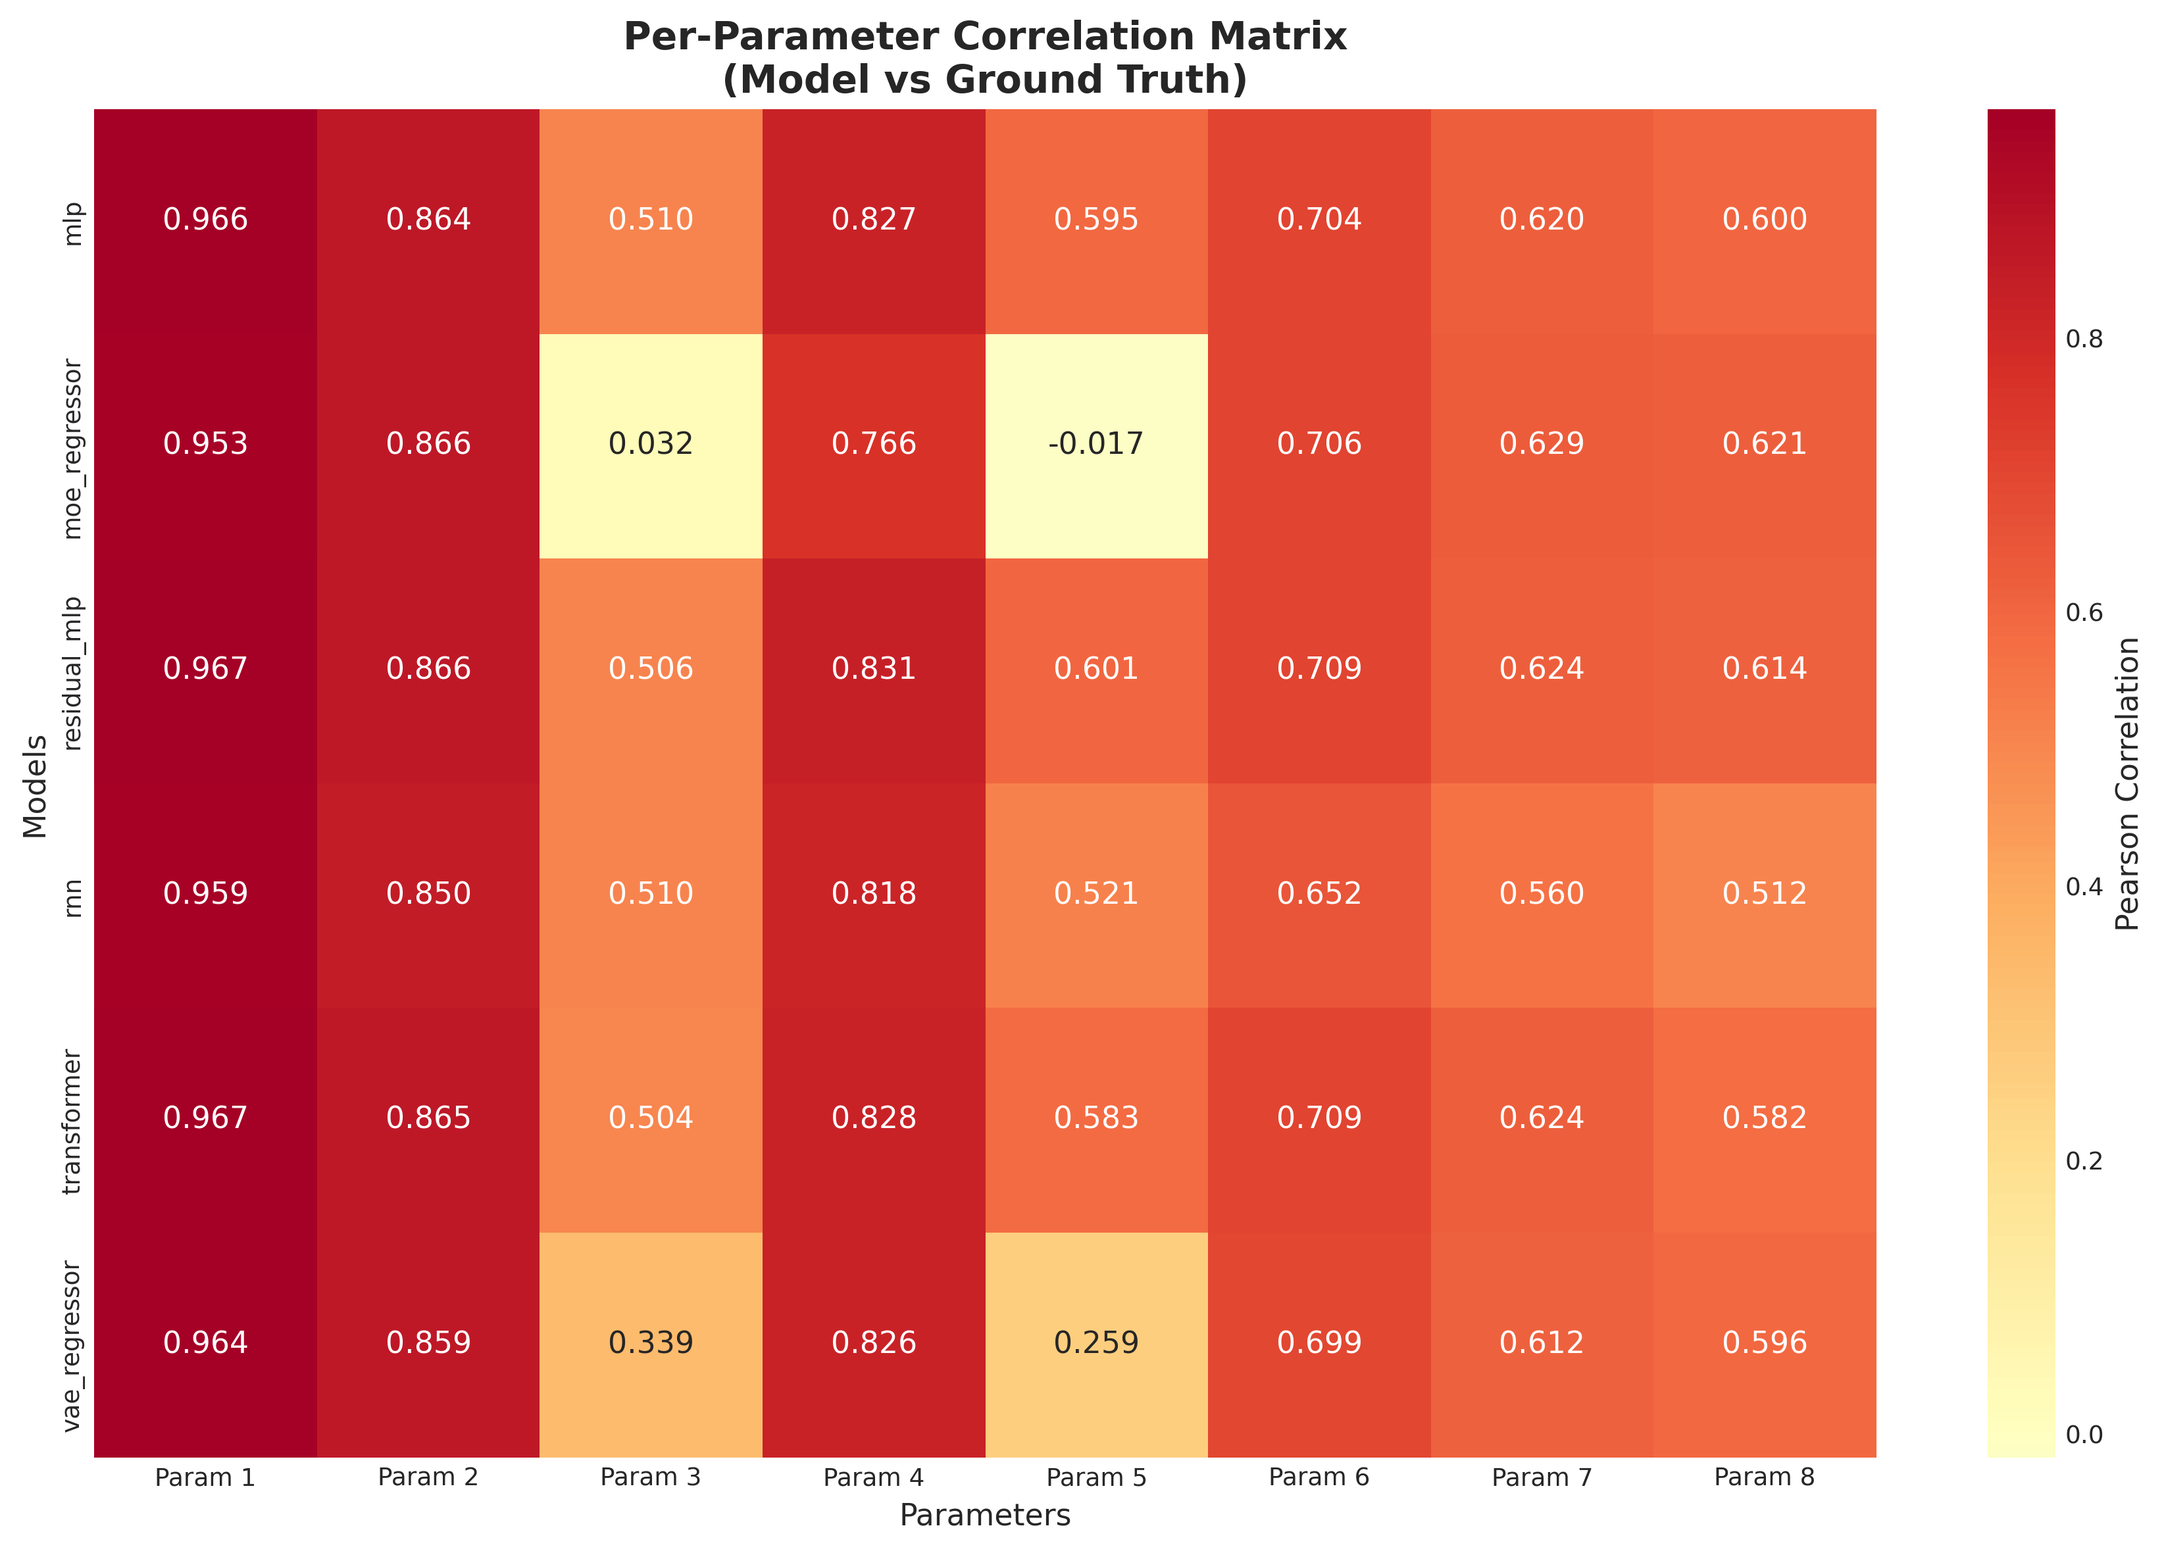
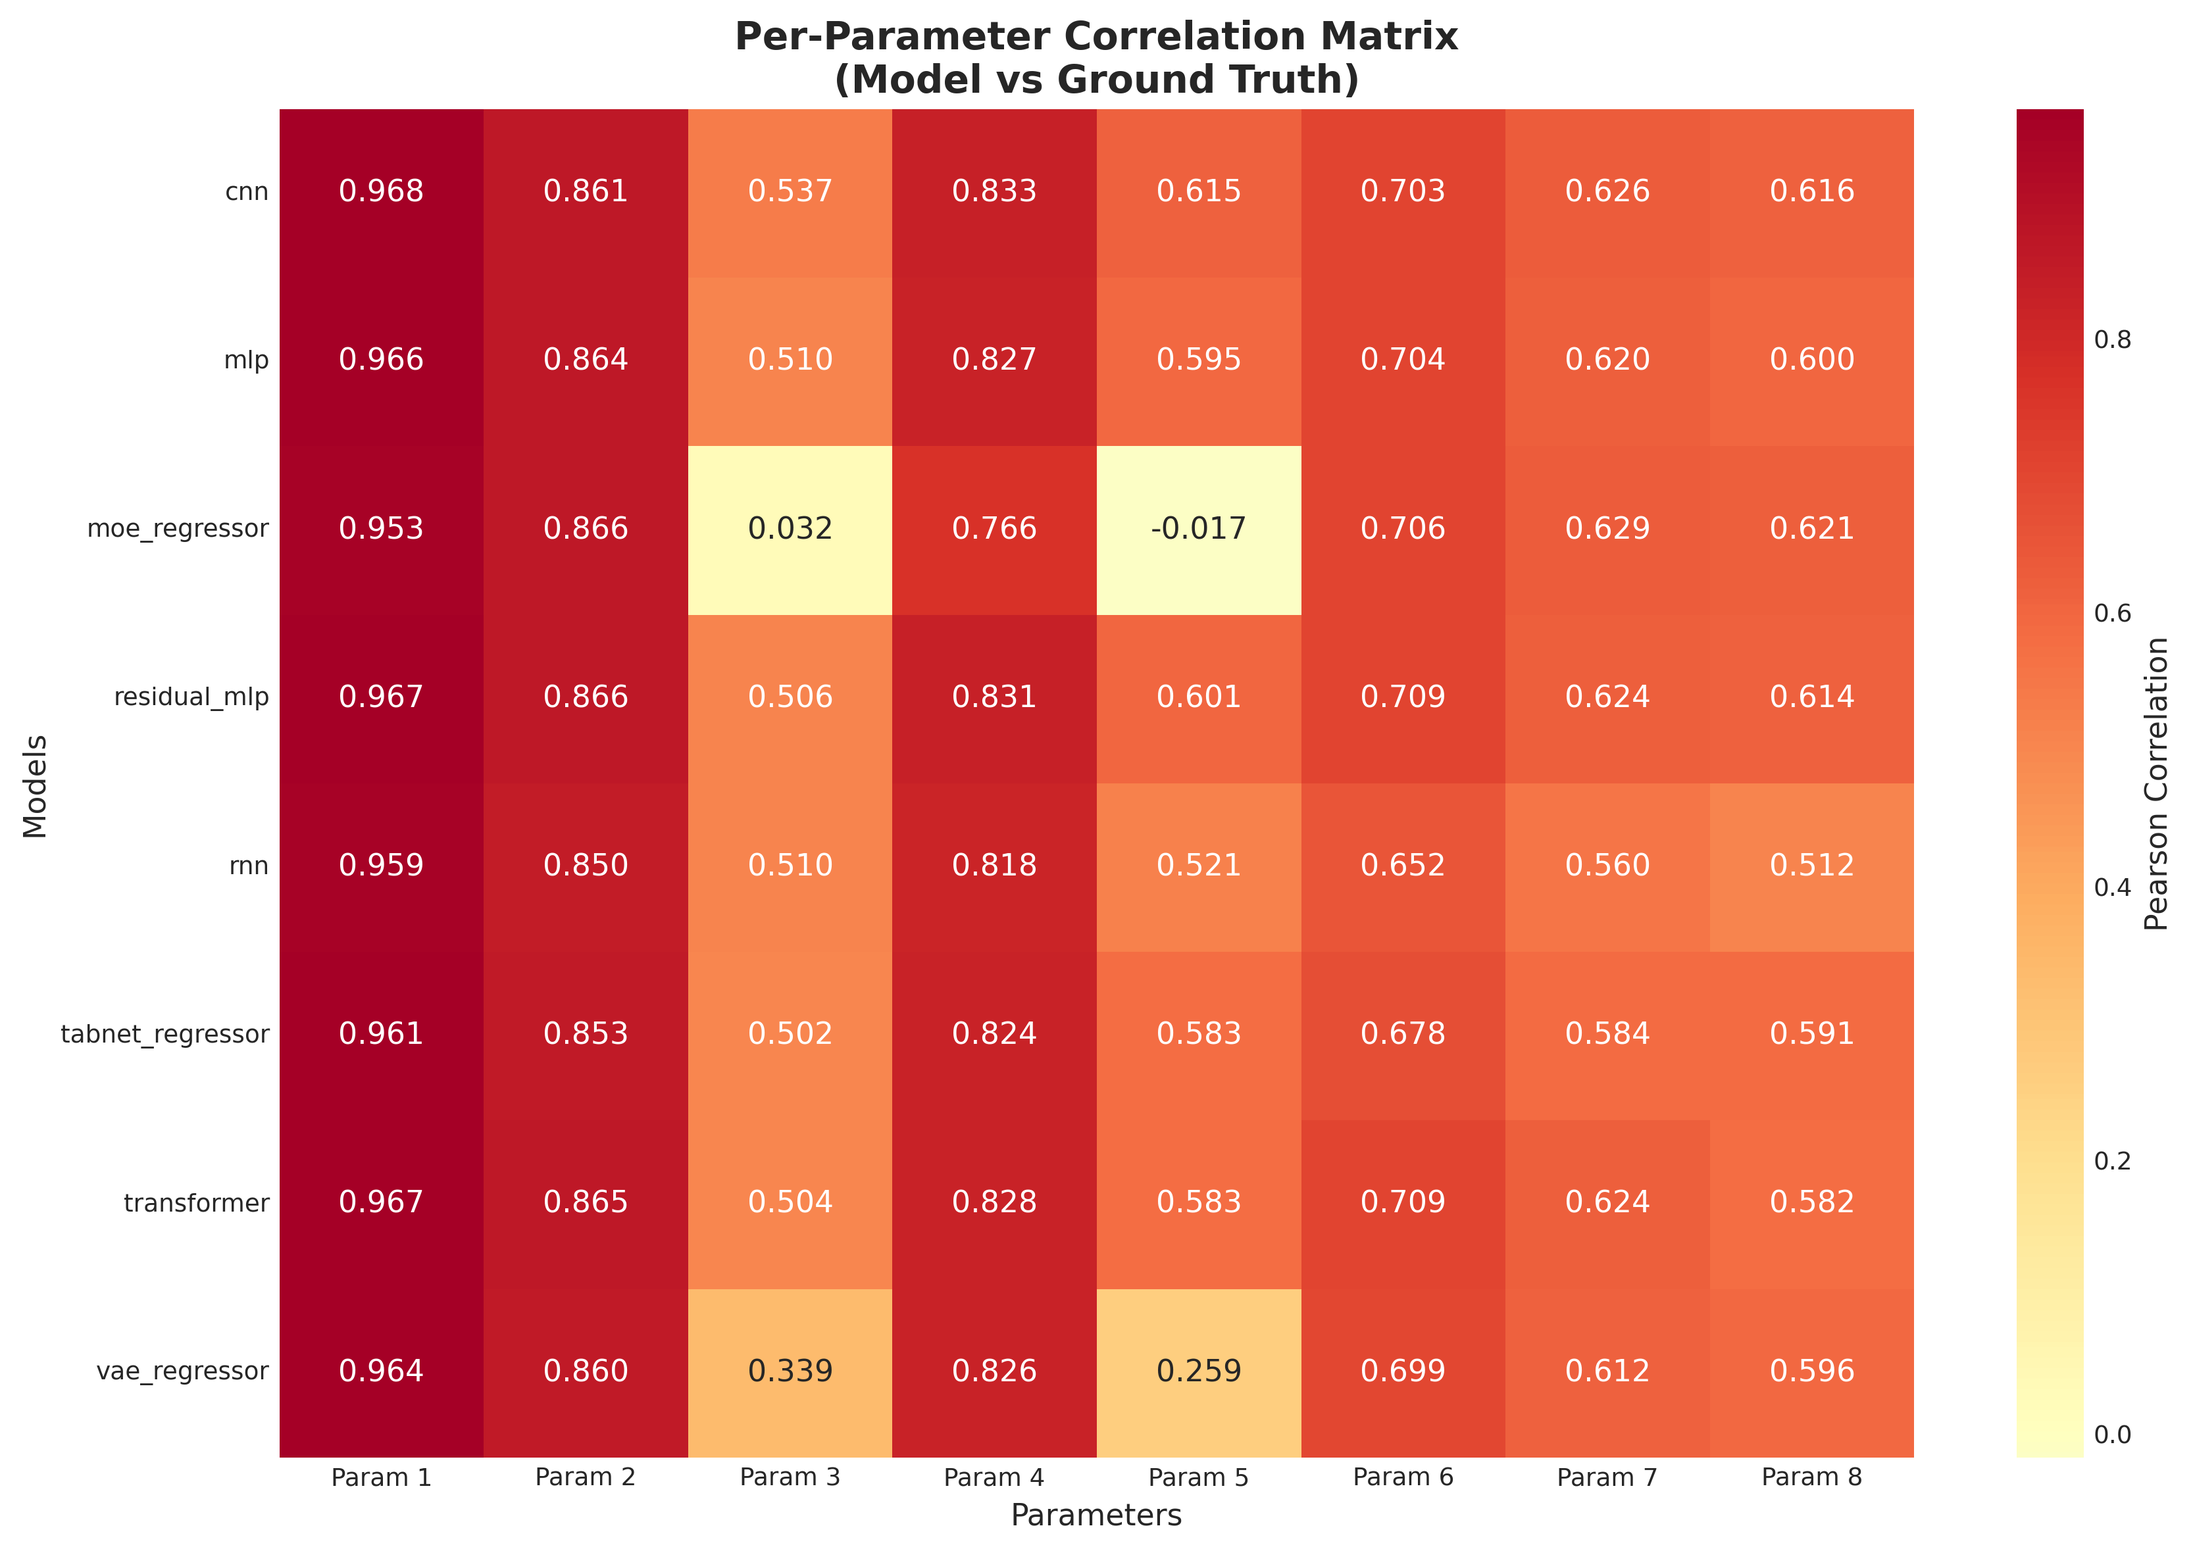
Enhance advanced evaluation and parameter-wise analysis
Refactored advanced_evaluate.py to improve parameter-wise comparison plots with clearer heatmaps, summary statistics, and best-performer visualizations. Updated evaluate_models.py for more robust model/config matching and error handling. Migrated and expanded evaluation outputs to advanced_evaluation/, including new summary, plots, and LaTeX results table. Updated run_evaluation.bat to focus on advanced evaluation. Removed obsolete files from evaluation_results/.

diff --git a/advanced_evaluate.py b/advanced_evaluate.py
@@ -180,7 +180,7 @@ class AdvancedModelEvaluator(ModelEvaluator):
         plt.show()
     
     def create_parameter_wise_comparison(self):
-        """Create detailed parameter-wise comparison plots."""
+        """Create detailed parameter-wise comparison plots with improved readability for many models."""
         if not hasattr(self, 'results'):
             return
         
@@ -193,7 +193,7 @@ class AdvancedModelEvaluator(ModelEvaluator):
             for param_idx in range(n_params):
                 param_data.append({
                     'Model': model,
-                    'Parameter': f'Param {param_idx + 1}',
+                    'Parameter': f'P{param_idx + 1}',  # Shorter parameter names
                     'R²': self.results[model]['per_param_r2'][param_idx],
                     'MSE': self.results[model]['per_param_mse'][param_idx],
                     'MAE': self.results[model]['per_param_mae'][param_idx],
@@ -202,45 +202,138 @@ class AdvancedModelEvaluator(ModelEvaluator):
         
         df_params = pd.DataFrame(param_data)
         
-        # Create subplots
-        fig, axes = plt.subplots(2, 2, figsize=(16, 12))
-        fig.suptitle('Parameter-wise Model Performance Comparison', fontsize=16, fontweight='bold')
+        # Create two separate figures for better readability
+        # Figure 1: R² and Correlation (most important metrics)
+        fig1, axes1 = plt.subplots(1, 2, figsize=(18, 8))
+        fig1.suptitle('Parameter-wise Model Performance: Primary Metrics', fontsize=16, fontweight='bold')
         
-        # R² by parameter
-        sns.boxplot(data=df_params, x='Parameter', y='R²', ax=axes[0,0])
-        sns.stripplot(data=df_params, x='Parameter', y='R²', 
-                     hue='Model', ax=axes[0,0], size=8, alpha=0.7)
-        axes[0,0].set_title('R² Score Distribution by Parameter')
-        axes[0,0].legend(bbox_to_anchor=(1.05, 1), loc='upper left')
+        # R² with heatmap style for better visualization
+        df_pivot_r2 = df_params.pivot(index='Model', columns='Parameter', values='R²')
+        sns.heatmap(df_pivot_r2, annot=True, fmt='.3f', cmap='viridis', 
+                   cbar_kws={'label': 'R² Score'}, ax=axes1[0])
+        axes1[0].set_title('R² Score by Model and Parameter')
+        axes1[0].set_xlabel('Parameter')
+        axes1[0].set_ylabel('Model')
         
-        # MSE by parameter
-        sns.boxplot(data=df_params, x='Parameter', y='MSE', ax=axes[0,1])
-        sns.stripplot(data=df_params, x='Parameter', y='MSE', 
-                     hue='Model', ax=axes[0,1], size=8, alpha=0.7)
-        axes[0,1].set_title('MSE Distribution by Parameter')
-        axes[0,1].legend(bbox_to_anchor=(1.05, 1), loc='upper left')
-        axes[0,1].set_yscale('log')
-        
-        # MAE by parameter
-        sns.boxplot(data=df_params, x='Parameter', y='MAE', ax=axes[1,0])
-        sns.stripplot(data=df_params, x='Parameter', y='MAE', 
-                     hue='Model', ax=axes[1,0], size=8, alpha=0.7)
-        axes[1,0].set_title('MAE Distribution by Parameter')
-        axes[1,0].legend(bbox_to_anchor=(1.05, 1), loc='upper left')
-        
-        # Correlation by parameter
-        sns.boxplot(data=df_params, x='Parameter', y='Correlation', ax=axes[1,1])
-        sns.stripplot(data=df_params, x='Parameter', y='Correlation', 
-                     hue='Model', ax=axes[1,1], size=8, alpha=0.7)
-        axes[1,1].set_title('Correlation Distribution by Parameter')
-        axes[1,1].legend(bbox_to_anchor=(1.05, 1), loc='upper left')
+        # Correlation heatmap
+        df_pivot_corr = df_params.pivot(index='Model', columns='Parameter', values='Correlation')
+        sns.heatmap(df_pivot_corr, annot=True, fmt='.3f', cmap='plasma',
+                   cbar_kws={'label': 'Correlation'}, ax=axes1[1])
+        axes1[1].set_title('Correlation by Model and Parameter')
+        axes1[1].set_xlabel('Parameter')
+        axes1[1].set_ylabel('Model')
         
         plt.tight_layout()
-        plt.savefig(os.path.join(self.results_dir, 'parameter_wise_comparison.png'), 
+        plt.savefig(os.path.join(self.results_dir, 'parameter_wise_primary_metrics.png'), 
                    dpi=300, bbox_inches='tight')
         plt.show()
         
+        # Figure 2: Error metrics (MSE and MAE)
+        fig2, axes2 = plt.subplots(1, 2, figsize=(18, 8))
+        fig2.suptitle('Parameter-wise Model Performance: Error Metrics', fontsize=16, fontweight='bold')
+        
+        # MSE heatmap (log scale for better visualization)
+        df_pivot_mse = df_params.pivot(index='Model', columns='Parameter', values='MSE')
+        # Use log scale for MSE due to potentially large values
+        sns.heatmap(np.log10(df_pivot_mse + 1e-10), annot=df_pivot_mse.values, fmt='.2e', 
+                   cmap='Reds', cbar_kws={'label': 'log₁₀(MSE)'}, ax=axes2[0])
+        axes2[0].set_title('MSE by Model and Parameter (log scale)')
+        axes2[0].set_xlabel('Parameter')
+        axes2[0].set_ylabel('Model')
+        
+        # MAE heatmap
+        df_pivot_mae = df_params.pivot(index='Model', columns='Parameter', values='MAE')
+        sns.heatmap(df_pivot_mae, annot=True, fmt='.3f', cmap='Oranges',
+                   cbar_kws={'label': 'MAE'}, ax=axes2[1])
+        axes2[1].set_title('MAE by Model and Parameter')
+        axes2[1].set_xlabel('Parameter')
+        axes2[1].set_ylabel('Model')
+        
+        plt.tight_layout()
+        plt.savefig(os.path.join(self.results_dir, 'parameter_wise_error_metrics.png'), 
+                   dpi=300, bbox_inches='tight')
+        plt.show()
+        
+        # Figure 3: Summary statistics for each parameter
+        fig3, axes3 = plt.subplots(2, 2, figsize=(16, 12))
+        fig3.suptitle('Parameter Performance Summary Statistics', fontsize=16, fontweight='bold')
+        
+        # Best performing model per parameter for each metric
+        metrics = ['R²', 'MSE', 'MAE', 'Correlation']
+        metric_titles = ['Best R² by Parameter', 'Best MSE by Parameter', 
+                        'Best MAE by Parameter', 'Best Correlation by Parameter']
+        
+        for idx, (metric, title) in enumerate(zip(metrics, metric_titles)):
+            ax = axes3[idx//2, idx%2]
+            
+            # Find best model for each parameter
+            if metric in ['MSE', 'MAE']:
+                best_per_param = df_params.groupby('Parameter')[metric].idxmin()
+            else:
+                best_per_param = df_params.groupby('Parameter')[metric].idxmax()
+            
+            best_models = df_params.loc[best_per_param, ['Parameter', 'Model', metric]]
+            
+            # Create bar plot
+            bars = ax.bar(best_models['Parameter'], best_models[metric], 
+                         color=sns.color_palette("husl", len(best_models)))
+            ax.set_title(title)
+            ax.set_xlabel('Parameter')
+            ax.set_ylabel(metric)
+            ax.tick_params(axis='x', rotation=45)
+            
+            # Add model labels on bars
+            for i, (bar, model) in enumerate(zip(bars, best_models['Model'])):
+                height = bar.get_height()
+                ax.text(bar.get_x() + bar.get_width()/2., height + height*0.01,
+                       model, ha='center', va='bottom', fontsize=8, rotation=45)
+        
+        plt.tight_layout()
+        plt.savefig(os.path.join(self.results_dir, 'parameter_wise_best_performers.png'), 
+                   dpi=300, bbox_inches='tight')
+        plt.show()
+        
+        # Also save the legacy comparison plot but with improved styling
+        self._create_legacy_parameter_comparison(df_params)
+        
         return df_params
+    
+    def _create_legacy_parameter_comparison(self, df_params):
+        """Create the original style comparison but with improved readability."""
+        fig, axes = plt.subplots(2, 2, figsize=(20, 14))
+        fig.suptitle('Parameter-wise Model Performance (Detailed View)', fontsize=16, fontweight='bold')
+        
+        # Use smaller points and no overlapping stripplot
+        plot_params = {'size': 4, 'alpha': 0.6}
+        
+        # R² by parameter - use violin plot for better density visualization
+        sns.violinplot(data=df_params, x='Parameter', y='R²', ax=axes[0,0], 
+                      inner='quart', palette='viridis')
+        axes[0,0].set_title('R² Score Distribution by Parameter')
+        axes[0,0].tick_params(axis='x', rotation=45)
+        
+        # MSE by parameter - box plot only due to wide range
+        sns.boxplot(data=df_params, x='Parameter', y='MSE', ax=axes[0,1])
+        axes[0,1].set_title('MSE Distribution by Parameter')
+        axes[0,1].set_yscale('log')
+        axes[0,1].tick_params(axis='x', rotation=45)
+        
+        # MAE by parameter
+        sns.violinplot(data=df_params, x='Parameter', y='MAE', ax=axes[1,0],
+                      inner='quart', palette='plasma')
+        axes[1,0].set_title('MAE Distribution by Parameter')
+        axes[1,0].tick_params(axis='x', rotation=45)
+        
+        # Correlation by parameter
+        sns.violinplot(data=df_params, x='Parameter', y='Correlation', ax=axes[1,1],
+                      inner='quart', palette='coolwarm')
+        axes[1,1].set_title('Correlation Distribution by Parameter')
+        axes[1,1].tick_params(axis='x', rotation=45)
+        
+        plt.tight_layout()
+        plt.savefig(os.path.join(self.results_dir, 'parameter_wise_detailed_comparison.png'), 
+                   dpi=300, bbox_inches='tight')
+        plt.show()
     
     def create_model_complexity_analysis(self):
         """Analyze model complexity vs performance trade-offs."""

diff --git a/evaluate_models.py b/evaluate_models.py
@@ -72,12 +72,40 @@ class ModelEvaluator:
         configs_dir = 'configs'
         checkpoints_dir = 'checkpoints'
         
+        # Get all available checkpoints
+        available_checkpoints = {}
+        for checkpoint_file in os.listdir(checkpoints_dir):
+            if checkpoint_file.endswith('_best.pt'):
+                model_name = checkpoint_file.replace('_best.pt', '')
+                available_checkpoints[model_name] = os.path.join(checkpoints_dir, checkpoint_file)
+        
+        # Try to match config files with checkpoints
         for config_file in os.listdir(configs_dir):
             if config_file.endswith('.yaml'):
-                model_name = config_file.replace('.yaml', '')
-                checkpoint_path = os.path.join(checkpoints_dir, f"{model_name}_best.pt")
+                config_name = config_file.replace('.yaml', '')
+                config_path = os.path.join(configs_dir, config_file)
                 
-                if os.path.exists(checkpoint_path):
+                # Try exact match first
+                if config_name in available_checkpoints:
+                    checkpoint_path = available_checkpoints[config_name]
+                    model_name = config_name
+                else:
+                    # Try to find a checkpoint that starts with the config model type
+                    with open(config_path, 'r', encoding='utf-8') as f:
+                        config = yaml.safe_load(f)
+                    
+                    model_type = config.get('model', {}).get('type', '')
+                    checkpoint_path = None
+                    model_name = None
+                    
+                    # Look for checkpoints that match the model type
+                    for checkpoint_name in available_checkpoints.keys():
+                        if checkpoint_name == model_type or checkpoint_name.startswith(f"{model_type}_"):
+                            checkpoint_path = available_checkpoints[checkpoint_name]
+                            model_name = checkpoint_name
+                            break
+                
+                if checkpoint_path and model_name:
                     config_path = os.path.join(configs_dir, config_file)
                     with open(config_path, 'r', encoding='utf-8') as f:
                         config = yaml.safe_load(f)
@@ -237,18 +265,25 @@ class ModelEvaluator:
         # Evaluate each model
         results = {}
         for model_name, model_info in model_configs.items():
-            print(f"\nEvaluating {model_name}...")
+            print(f"Evaluating {model_name}...")
             
-            model = self.load_model(model_name, model_info['config'])
-            if model is None:
-                continue
+            try:
+                model = self.load_model(model_name, model_info['config'])
+                if model is None:
+                    print(f"  ❌ Failed to load {model_name}")
+                    continue
+                    
+                metrics = self.evaluate_single_model(model_name, model, X_test, y_test)
+                results[model_name] = metrics
                 
-            metrics = self.evaluate_single_model(model_name, model, X_test, y_test)
-            results[model_name] = metrics
-            
-            print(f"  R² Score: {metrics['r2']:.4f}")
-            print(f"  RMSE: {metrics['rmse']:.4f}")
-            print(f"  MAE: {metrics['mae']:.4f}")
+                print(f"  ✅ R² Score: {metrics['r2']:.4f}")
+                print(f"  RMSE: {metrics['rmse']:.4f}")
+                print(f"  MAE: {metrics['mae']:.4f}")
+            except Exception as e:
+                print(f"  ❌ Error evaluating {model_name}: {e}")
+                import traceback
+                traceback.print_exc()
+                continue
         
         self.results = results
         return results
